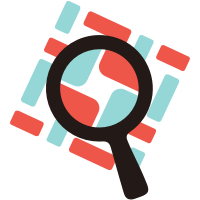
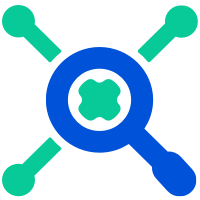
修改了LOGO

diff --git a/staticpage/src/uim/config.js b/staticpage/src/uim/config.js
@@ -4,9 +4,9 @@
  @Author：贤心
  @Site：http://www.layui.com/admin/
  @License：LPPL（layui付费产品协议）
-    
+
  */
- 
+
 layui.define(['laytpl', 'layer', 'element', 'util'], function(exports){
   exports('setter', {
     container: 'LAY_app' //容器ID
@@ -128,10 +128,10 @@ layui.define(['laytpl', 'layer', 'element', 'util'], function(exports){
         ,header: '#009688'
         ,alias: 'green-header' //墨绿头
       }]
-      
+
       //初始的颜色索引，对应上面的配色方案数组索引
       //如果本地已经有主题色记录，则以本地记录为优先，除非请求本地数据（localStorage）
-      ,initColorIndex: 0
+      ,initColorIndex: 10
     }
   });
 });

diff --git a/staticpage/src/views/index.html b/staticpage/src/views/index.html
@@ -2,7 +2,7 @@
 <html>
 <head>
     <meta charset="utf-8">
-    <title>FABRICSCAN</title>
+    <title>FABRICSCANER</title>
     <meta name="renderer" content="webkit">
     <meta http-equiv="X-UA-Compatible" content="IE=edge,chrome=1">
     <meta name="viewport" content="width=device-width, initial-scale=1.0, minimum-scale=1.0, maximum-scale=1.0, user-scalable=0">
